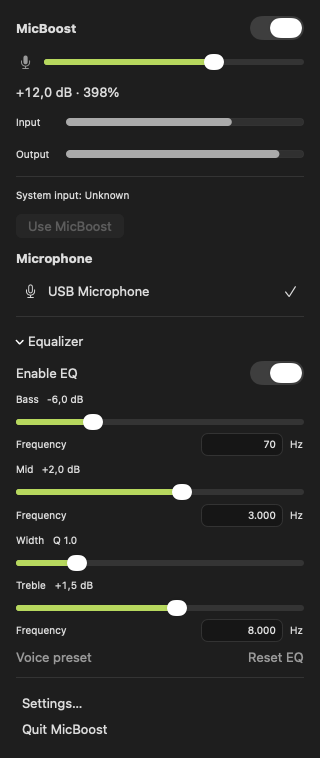
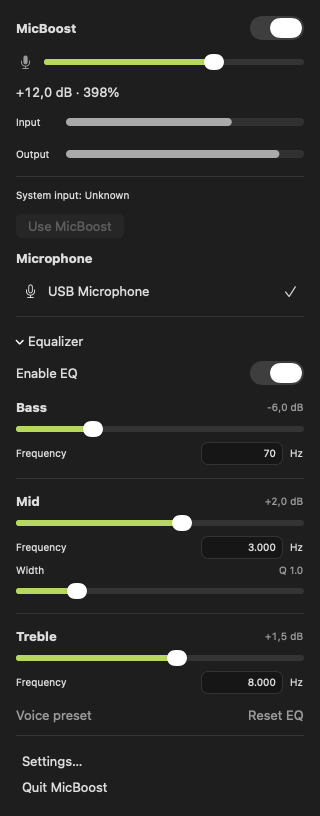
Group EQ bands under clear bold section headings

diff --git a/Sources/MicBoostUI/Views.swift b/Sources/MicBoostUI/Views.swift
@@ -119,16 +119,11 @@ import SwiftUI
                     band(
                         "Bass", gain: $model.controls.eq.low.gainDB, frequency: $model.controls.eq.low.frequency,
                         range: EQSettings.lowFrequencyRange)
+                    Divider()
                     band(
                         "Mid", gain: $model.controls.eq.mid.gainDB, frequency: $model.controls.eq.mid.frequency,
-                        range: EQSettings.midFrequencyRange)
-                    LabeledContent(localized("Width"), value: String(format: "Q %.1f", model.controls.eq.mid.q))
-                        .font(.caption)
-                    Slider(value: $model.controls.eq.mid.q, in: EQSettings.midQRange)
-                        .accessibilityLabel(localized("Width"))
-                        .accessibilityValue(String(format: "Q %.1f", model.controls.eq.mid.q)).onChange(
-                            of: model.controls.eq.mid.q
-                        ) { model.eq() }
+                        range: EQSettings.midFrequencyRange, q: $model.controls.eq.mid.q)
+                    Divider()
                     band(
                         "Treble", gain: $model.controls.eq.high.gainDB, frequency: $model.controls.eq.high.frequency,
                         range: EQSettings.highFrequencyRange)
@@ -170,16 +165,19 @@ import SwiftUI
                 .accessibilityLabel(localized(title)).accessibilityValue("\(Int(db)) dBFS")
         }
     }
-    private func band(_ title: String, gain: Binding<Double>, frequency: Binding<Double>, range: ClosedRange<Double>)
-        -> some View
-    {
-        VStack(alignment: .leading) {
-            LabeledContent(localized(title)) {
+    private func band(
+        _ title: String, gain: Binding<Double>, frequency: Binding<Double>, range: ClosedRange<Double>,
+        q: Binding<Double>? = nil
+    ) -> some View {
+        VStack(alignment: .leading, spacing: 6) {
+            HStack {
+                Text(localized(title)).font(.headline).accessibilityAddTraits(.isHeader)
+                Spacer()
                 Text(
                     gain.wrappedValue.formatted(.number.precision(.fractionLength(1)).sign(strategy: .always())) + " dB"
                 )
-                .monospacedDigit()
-            }.font(.caption)
+                .font(.caption).foregroundStyle(.secondary).monospacedDigit()
+            }
             Slider(
                 value: Binding(get: { gain.wrappedValue }, set: { gain.wrappedValue = ($0 * 2).rounded() / 2 }),
                 in: EQSettings.gainRange
@@ -222,7 +220,18 @@ import SwiftUI
                     }
                 Text("Hz")
             }.font(.caption)
-        }
+            if let q {
+                HStack {
+                    Text(localized("Width"))
+                    Spacer()
+                    Text(String(format: "Q %.1f", q.wrappedValue)).foregroundStyle(.secondary)
+                }.font(.caption)
+                Slider(value: q, in: EQSettings.midQRange)
+                    .accessibilityLabel(localized("Width"))
+                    .accessibilityValue(String(format: "Q %.1f", q.wrappedValue))
+                    .onChange(of: q.wrappedValue) { model.eq() }
+            }
+        }.padding(.vertical, 6)
     }
 }
 

diff --git a/docs/ui.md b/docs/ui.md
@@ -52,7 +52,9 @@ Conteúdo, de cima para baixo (SwiftUI, `PanelView`):
    - Agudos: slider de ganho + campo de frequência;
    - ações sem borda "Padrão de voz" e "Zerar EQ" na mesma linha.
 
-   O ganho de cada banda aparece numericamente junto ao título; campos de frequência têm largura compacta e alinhamento numérico à direita.
+   Cada banda é um bloco separado por espaçamento e divisor, com título em `.headline`
+   negrito (como "Microfone") e marcação de cabeçalho para acessibilidade. O controle
+   de largura fica dentro do bloco de Médios. O ganho de cada banda aparece numericamente junto ao título; campos de frequência têm largura compacta e alinhamento numérico à direita.
 
    Valores editáveis, validados e limitados às faixas de [dsp.md](dsp.md#equalizador). Sem gráfico de resposta.
 7. **Rodapé:** opções de menu em texto puro, uma por linha e alinhadas à esquerda, "Ajustes…" (abre a janela de ajustes) e "Sair do MicBoost". Sem moldura de botão; a linha inteira é clicável e ganha destaque semântico ao passar o ponteiro ou pressionar, como as ações nos painéis de Som do macOS.

diff --git a/README.md b/README.md
@@ -56,7 +56,7 @@ Available today:
 
 - **Gain from −12 to +24 dB**, mute and peak protection; toggling mute keeps the gain slider in place.
 - **3-band EQ** with adjustable bass, parametric mids and treble, bypass and reset. Click its
-  title or disclosure arrow to expand or collapse it.
+  title or disclosure arrow to expand or collapse it; each band has a clear section heading.
 
 - **Any Core Audio input**, captured explicitly by UID — the source does not have to be the
   system default input.
